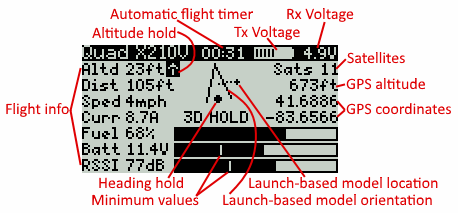
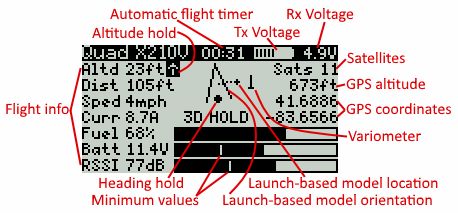
Log unique GPS coords, split change log from readme, update screenshots to show variometer

diff --git a/README.md b/README.md
@@ -1,4 +1,4 @@
-# SmartPort/INAV Telemetry Flight Status - v1.2.2
+# SmartPort/INAV Telemetry Flight Status - v1.2.3
 
 #### Taranis Q X7
 ![sample](assets/iNavQX71.png "launch/pilot-based model orientation and location indicators")
@@ -99,56 +99,9 @@ Press the `Menu` button to display the configuration options menu:
 * If you change a telemetry sensor's unit (for example m to ft), power cycle the transmitter to see changes
 * INAV v1.8+ is required for `Home reset` voice notification
 
-## Release History
+## Change Log
 
-#### v1.2.2 - 12/09/2017
-* Last 5 GPS coordinates can be reviewed from the config menu
-* Resolved issue where if telemetry was lost/recovered it would incorrectly give voice alerts for flight modes/engines armed/disarmed
-* Config menu can be accessed at any time, even when armed
-#### v1.2.1 - 12/01/2017
-* Lots of new/changed config settings (press `Menu` button to access) - **Please review!**
-* Enhanced and cleaned up config menu, centered menu on Q X7 & X9D/+
-* Variometer shows if model is gaining or decreasing altitude
-* Cell voltage battery view shows with two digits of precision
-* Added `S` (South) to X9D/+ directional display
-#### v1.2.0 - 11/18/2017
-* Lua Telemetry is now pre-compiled to greatly reduce memory (source still available)
-* Press `Menu` button (when not armed) to modify user configuration options
-* Fixed `FAILSAFE`, `RTH`, `NOT OK` & `NO TELEM` modes to flash as they should
-* Barometer and magnetometer are now optional (but suggested for full functionality)
-* Headfree indication on Q X7 changed to show directional indicators as dotted lines
-* Startup message/version and error if not running OpenTX v2.2.0 or later
-#### v1.1.7 - 11/02/2017
-* Fix for the default unit type of the `Dist` (`0420`) sensor
-#### v1.1.6 - 11/01/2017
-* On home reset, reset GPS home position, orientation and distance
-* Option to display average battery cell voltage instead of total voltage
-* Extra digit for data on X9D & X9D+ transmitters
-* Variable cleanup saving memory
-#### v1.1.5 - 10/20/2017
-* Voice notification for `Home Reset` with INAV v1.8+
-* Moved head free warning on Q X7 to top center
-* Values convert from decimal to integer when larger to allow for more room
-* Better text centering and right justification technique
-* Cleaned up code saving more memory
-#### v1.1.4 - 10/13/2017
-* More accurate max altitude alerts and altitude flashes when above max altitude
-* Long-press <Enter> resets values (suggest doing this between flights before armed)
-#### v1.1.3 - 10/10/2017
-* Shows metric or imperial values based on transmitter telemetry settings
-#### v1.1.2 - 10/06/2017
-* Lots of refactoring which greatly reduced memory usage
-* Re-enabled altitude bar gauge for X9D, X9D+ & X9E transmitters
-* Better information layout if no current sensor is present
-* Refactored GPS lock calculation to prevent script syntax errors
-#### v1.1.1 - 09/28/2017
-* Refactored code to reduce memory
-* Removed altitude bar gauge for X9D, X9D+ & X9E transmitters (used too much memory?)
-#### v1.1.0 - 09/22/2017
-* Repo moved to INAVFlight
-* Screen formatting for Taranis X9D, X9D+ & X9E
-#### v1.0.0 - 09/19/2017
-* Initial release
+[Release History](https://github.com/iNavFlight/LuaTelemetry/blob/master/CHANGES.md)
 
 ## License
 

diff --git a/CHANGES.md b/CHANGES.md
@@ -1,0 +1,53 @@
+## Release History
+
+#### v1.2.3 - 
+* Logs the last 5 unique GPS coordinates
+#### v1.2.2 - 12/09/2017
+* Last 5 GPS coordinates can be reviewed from the config menu
+* Resolved issue where if telemetry was lost/recovered it would incorrectly give voice alerts for flight modes/engines armed/disarmed
+* Config menu can be accessed at any time, even when armed
+#### v1.2.1 - 12/01/2017
+* Lots of new/changed config settings (press `Menu` button to access) - **Please review!**
+* Enhanced and cleaned up config menu, centered menu on Q X7 & X9D/+
+* Variometer shows if model is gaining or decreasing altitude
+* Cell voltage battery view shows with two digits of precision
+* Added `S` (South) to X9D/+ directional display
+#### v1.2.0 - 11/18/2017
+* Lua Telemetry is now pre-compiled to greatly reduce memory (source still available)
+* Press `Menu` button (when not armed) to modify user configuration options
+* Fixed `FAILSAFE`, `RTH`, `NOT OK` & `NO TELEM` modes to flash as they should
+* Barometer and magnetometer are now optional (but suggested for full functionality)
+* Headfree indication on Q X7 changed to show directional indicators as dotted lines
+* Startup message/version and error if not running OpenTX v2.2.0 or later
+#### v1.1.7 - 11/02/2017
+* Fix for the default unit type of the `Dist` (`0420`) sensor
+#### v1.1.6 - 11/01/2017
+* On home reset, reset GPS home position, orientation and distance
+* Option to display average battery cell voltage instead of total voltage
+* Extra digit for data on X9D & X9D+ transmitters
+* Variable cleanup saving memory
+#### v1.1.5 - 10/20/2017
+* Voice notification for `Home Reset` with INAV v1.8+
+* Moved head free warning on Q X7 to top center
+* Values convert from decimal to integer when larger to allow for more room
+* Better text centering and right justification technique
+* Cleaned up code saving more memory
+#### v1.1.4 - 10/13/2017
+* More accurate max altitude alerts and altitude flashes when above max altitude
+* Long-press <Enter> resets values (suggest doing this between flights before armed)
+#### v1.1.3 - 10/10/2017
+* Shows metric or imperial values based on transmitter telemetry settings
+#### v1.1.2 - 10/06/2017
+* Lots of refactoring which greatly reduced memory usage
+* Re-enabled altitude bar gauge for X9D, X9D+ & X9E transmitters
+* Better information layout if no current sensor is present
+* Refactored GPS lock calculation to prevent script syntax errors
+#### v1.1.1 - 09/28/2017
+* Refactored code to reduce memory
+* Removed altitude bar gauge for X9D, X9D+ & X9E transmitters (used too much memory?)
+#### v1.1.0 - 09/22/2017
+* Repo moved to INAVFlight
+* Screen formatting for Taranis X9D, X9D+ & X9E
+#### v1.0.0 - 09/19/2017
+* Initial release
+
